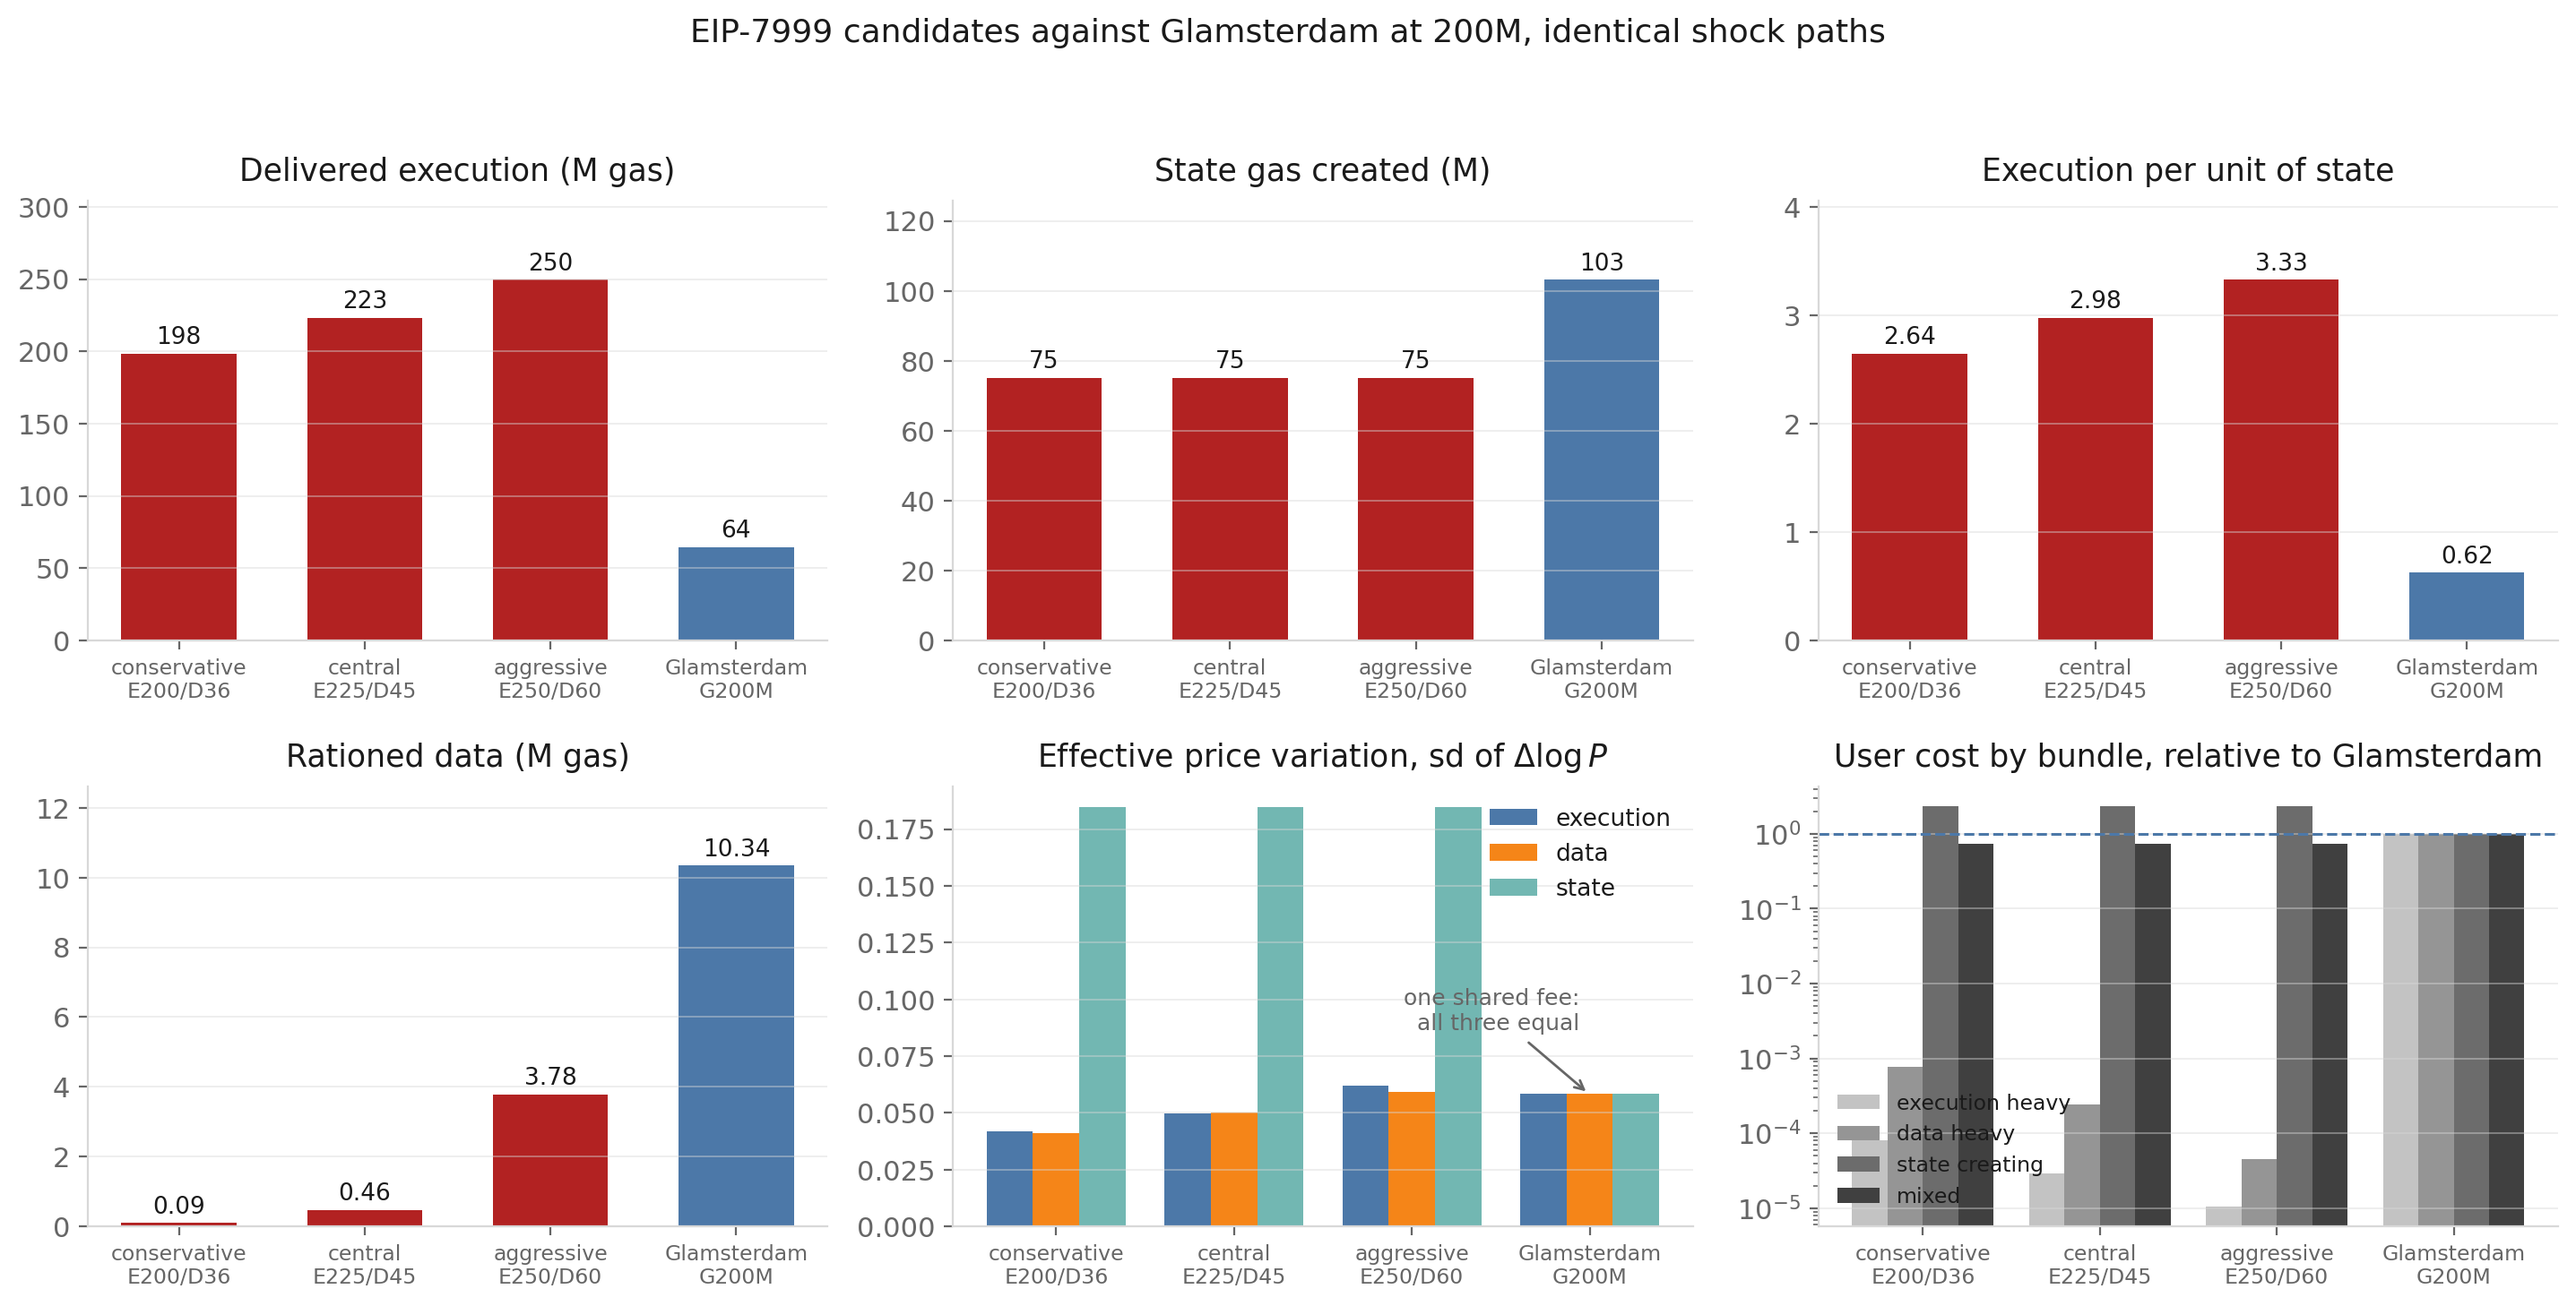
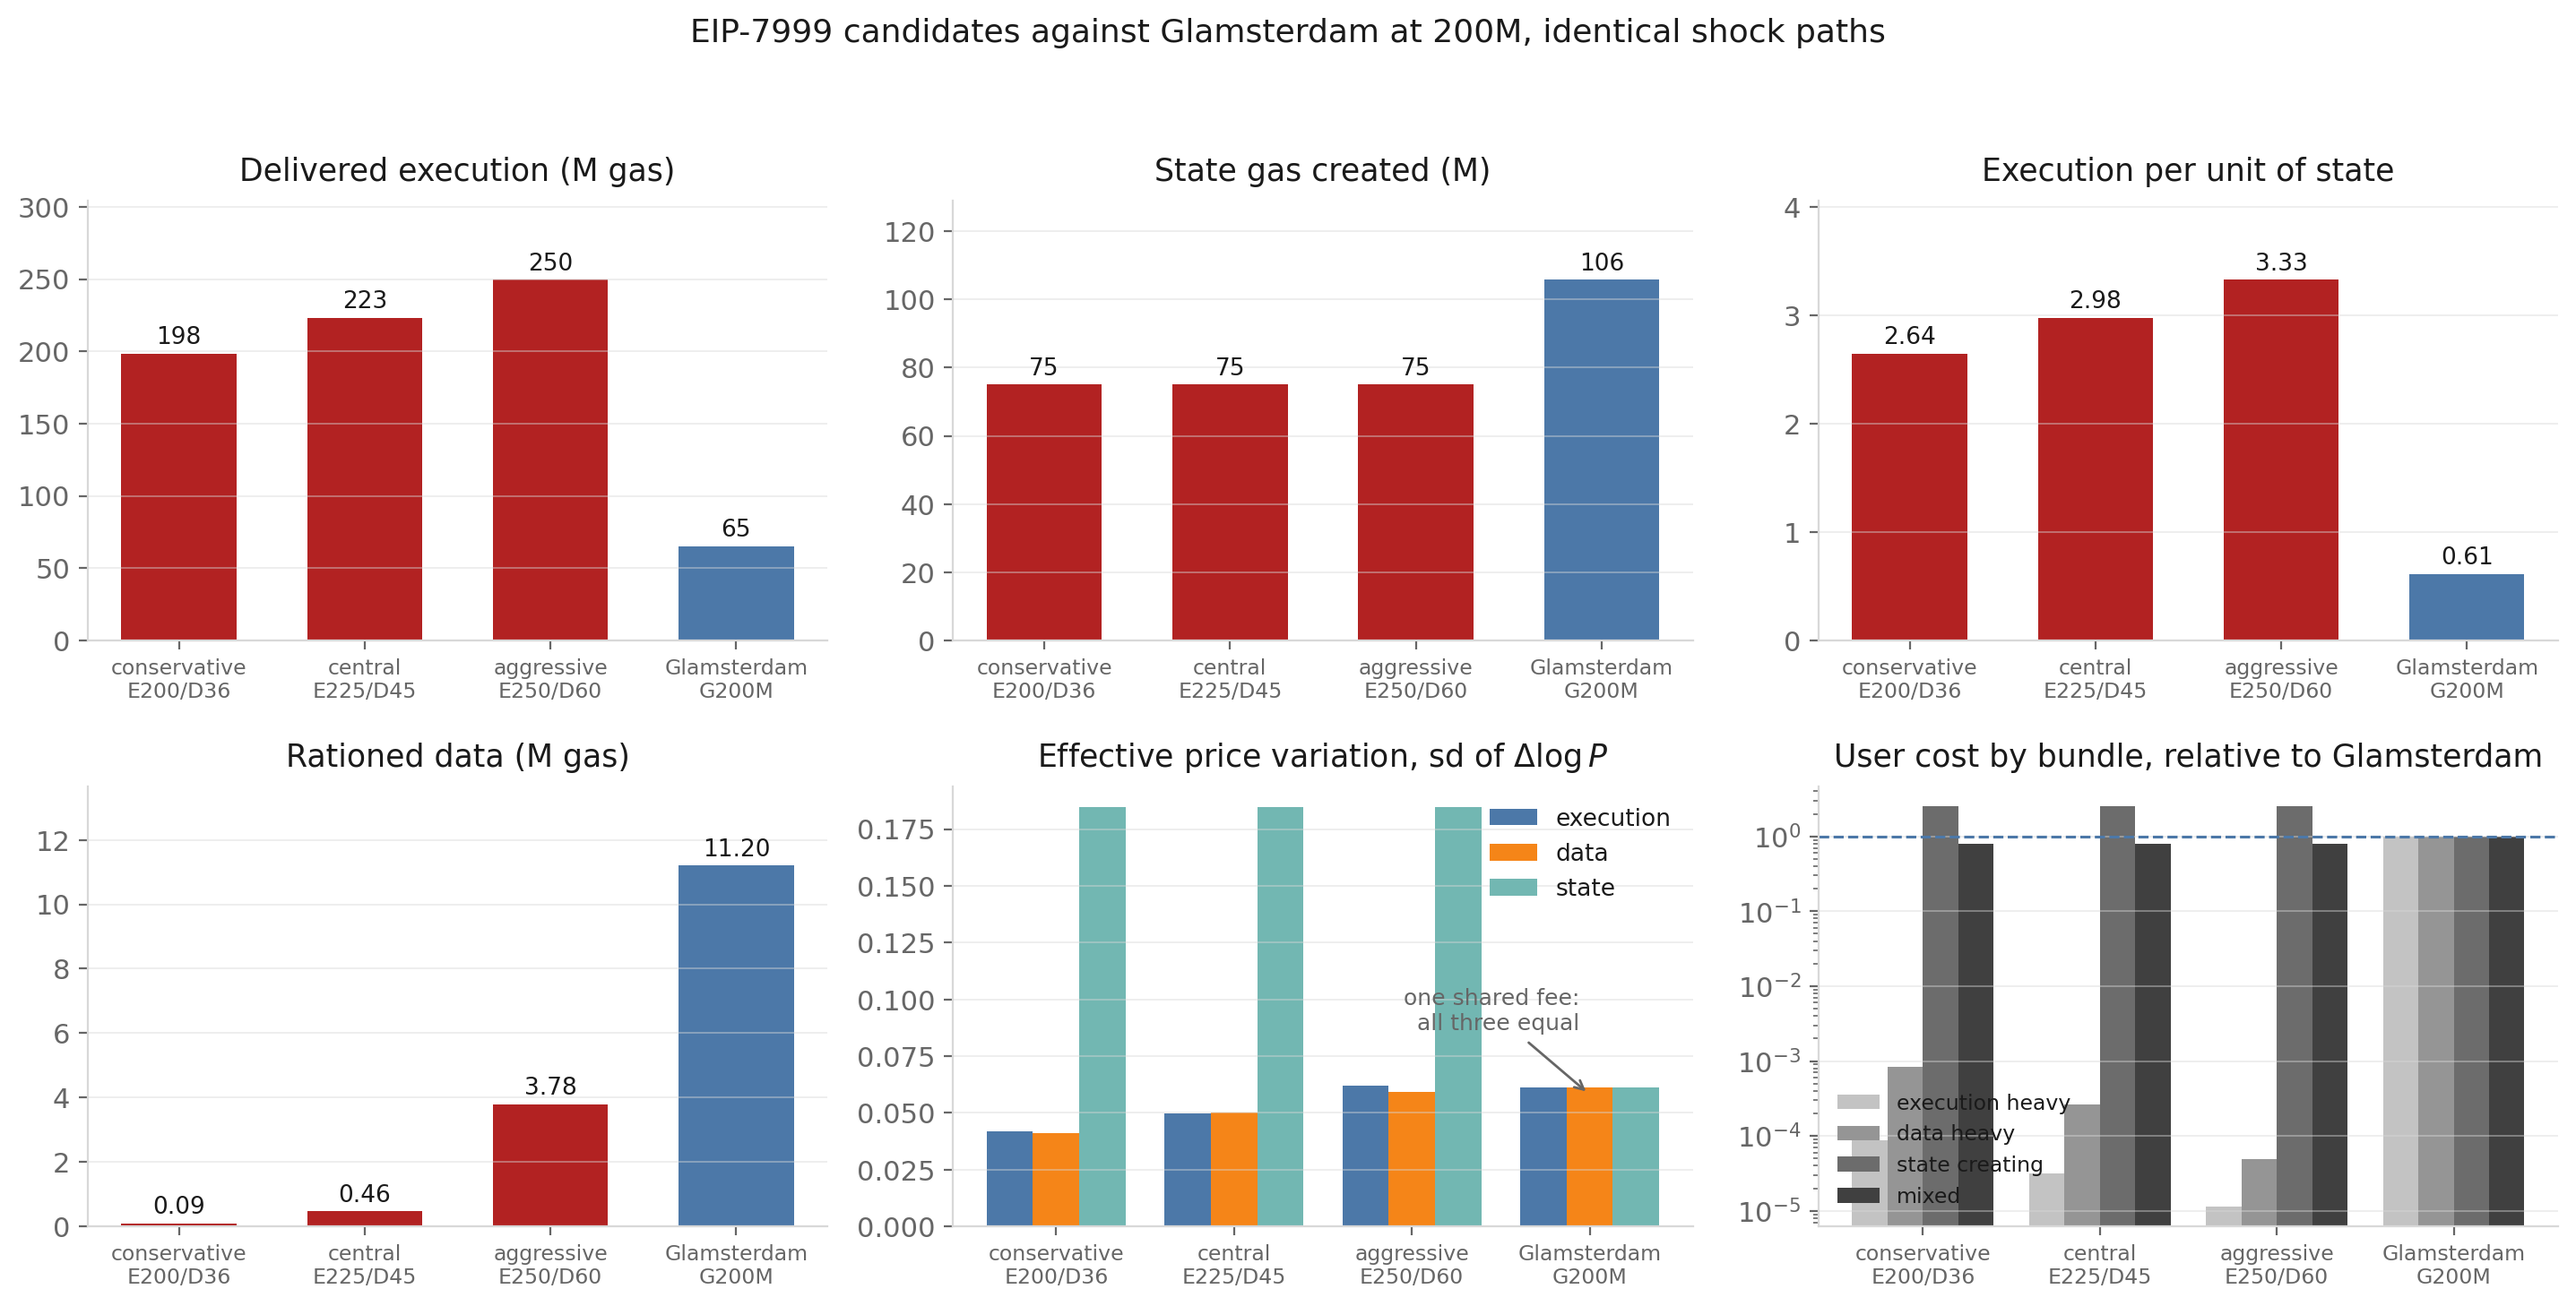
Simulate Glamsterdam with EIP-1559, not the EIP-7999 fee rule
The Glamsterdam kernel imported update_excess_gas and compute_base_fee from the
EIP-7999 module, so it ran the normalised excess-gas rule with exponentiation.
Glamsterdam is a hardfork of the current chain and keeps EIP-1559, which moves
the fee itself by a fraction of the relative gap to target. Simulating it with
the EIP-7999 update compared EIP-7999's dynamics against themselves.

The two rules agree on their maximum per-block rate, both reaching 12.5%, and
share the fixed point at u = T. Mean throughput is therefore largely a
fixed-point property and barely moves: delivered execution 64.4M -> 64.9M, state
gas 103.2M -> 105.8M. What the error distorted is everything about the approach
to that fixed point -- shared-fee volatility 0.058 -> 0.061, blocks at a hard
limit 0.091 -> 0.096, rationed data 10.34M -> 11.20M -- and floor behaviour,
since EIP-1559's downward step truncates to zero below 8 wei and so has an
emergent floor there, where EIP-7999 clamps its counter at zero and holds one
wei.

The new step reproduces the reference integer arithmetic exactly on all 4,080
cases tested, including both caps and the emergent floor. Successive floors by a
positive integer collapse, so base_fee * gap // target // 8 is evaluated as a
single floor in a grouping that keeps the intermediate inside float64's
exact-integer range.

Headline moves from 3.5x to 3.4x the execution of Glamsterdam at 200M, with
state creation 29% lower rather than 27%. The state-creating bundle costs 2.5x
[…]

diff --git a/src/dynamics/glamsterdam_replay.py b/src/dynamics/glamsterdam_replay.py
@@ -11,6 +11,17 @@ so metering is multi-dimensional while pricing stays one-dimensional. That is
 the structural difference being tested: under EIP-7999 the same workload faces
 three prices and a BAL charge, here it faces one price and none.
 
+Fee update. Glamsterdam is a hardfork of the current chain and keeps the EIP-1559
+rule, which is *not* the rule EIP-7999 uses. EIP-1559 moves the fee itself by a
+fraction of the relative gap to target, capped at one eighth per block; EIP-7999
+accumulates a normalised excess-gas counter and exponentiates it. The two agree
+on their maximum per-block rate, both reaching 12.5%, and they share the same
+fixed point at u = T -- so mean throughput is largely a fixed-point property and
+is insensitive to which is used. They differ in the approach to that fixed point
+and in floor behaviour, so volatility, limit-hit and floor statistics are not
+transferable between them. Using the EIP-7999 rule here would compare EIP-7999's
+dynamics against itself.
+
 Shock convention. The same latent workload (s_E, s_D, s_S, a) drives both
 mechanisms. The access-composition shock ``a`` changes the BAL payload in both
 worlds, but BAL is not a priced resource under Glamsterdam, so it does not
@@ -24,11 +35,36 @@ from dataclasses import dataclass
 
 import numpy as np
 
-from .batched_replay import (
-    EffectivePriceSummary,
-    GWEI, MIN_BASE_FEE_PER_GAS, OnlineSummary, compute_base_fee,
-    excess_gas_for_base_fee, update_excess_gas,
-)
+from .batched_replay import EffectivePriceSummary, GWEI, OnlineSummary
+
+BASE_FEE_MAX_CHANGE_DENOMINATOR = 8
+
+
+def update_base_fee_1559(
+    base_fee: np.ndarray, gas_used: np.ndarray, gas_target: np.ndarray,
+) -> np.ndarray:
+    """EIP-1559 base-fee update, reproducing the reference integer arithmetic.
+
+    The spec computes ``base_fee * delta_gas // target // 8``. Successive floors
+    by a positive integer collapse, so that equals ``floor(base_fee * delta_gas /
+    (target * 8))``, which is evaluated here in a grouping that keeps the
+    intermediate small enough to stay inside float64's exact-integer range.
+
+    The upward step is floored at one wei by the spec; the downward step is not,
+    so integer truncation stalls the fee once ``base_fee`` drops below the change
+    denominator. That gives EIP-1559 an emergent floor near 8 wei rather than the
+    explicit one-wei floor EIP-7999 sets, and it is reproduced rather than
+    smoothed over.
+    """
+
+    gap = gas_used - gas_target
+    step = np.floor(
+        base_fee * (np.abs(gap) / (gas_target * float(BASE_FEE_MAX_CHANGE_DENOMINATOR)))
+    )
+    return np.where(
+        gap > 0, base_fee + np.maximum(step, 1.0),
+        np.where(gap < 0, base_fee - step, base_fee),
+    )
 
 
 @dataclass(frozen=True)
@@ -82,8 +118,8 @@ def run_glamsterdam_batch(
         raise ValueError("batch is not a multiple of the supplied shock paths")
 
     p0_wei = config.p0_gwei * GWEI
-    fee = np.maximum(initial_base_fee_wei.astype(float), MIN_BASE_FEE_PER_GAS)
-    excess = excess_gas_for_base_fee(fee)
+    # EIP-1559 carries no excess-gas accumulator: the fee itself is the state.
+    fee = np.maximum(initial_base_fee_wei.astype(float), 1.0)
 
     summary = OnlineSummary(batch)
     effective_prices = EffectivePriceSummary(batch)
@@ -122,8 +158,7 @@ def run_glamsterdam_batch(
         used = np.minimum(offered, config.gas_limit)
 
         previous_fee = fee
-        excess = update_excess_gas(excess, used, config.gas_target, config.gas_limit)
-        fee = compute_base_fee(excess)
+        fee = update_base_fee_1559(fee, used, config.gas_target)
 
         # The three effective activity prices. Each is a fixed multiple of the one
         # shared fee, so under this mechanism they are perfectly correlated by

diff --git a/scripts/run_glamsterdam_comparison.py b/scripts/run_glamsterdam_comparison.py
@@ -92,7 +92,7 @@ def seven999_config(design, batch, demand, anchor):
     )
 
 
-def glamsterdam_config(gas_limit, batch, glam):
+def glamsterdam_config(gas_limit, batch, glam, demand):
     ones = np.ones(batch)
     return GlamsterdamConfig(
         gas_target=ones * gas_limit / 2.0, gas_limit=ones * gas_limit,
@@ -100,6 +100,8 @@ def glamsterdam_config(gas_limit, batch, glam):
         eps_state=ones * EPS["state"],
         m_execution=float(glam.m_execution), m_data=float(glam.m_data),
         m_state=float(glam.m_state),
+        w_execution=float(demand.w_execution_reference),
+        w_state=float(demand.w_state_reference),
         q_execution_0=float(glam.q_execution_per_block),
         q_data_0=float(glam.q_data_per_block),
         q_state_0=float(glam.q_state_per_block),
@@ -137,7 +139,8 @@ def main() -> None:
     rows = []
     for gas_limit in GLAMSTERDAM_SWEEP:
         out = run_glamsterdam_batch(
-            glamsterdam_config(gas_limit, N_SEEDS, glam), shocks, start_fee, burn_in=BURN_IN
+            glamsterdam_config(gas_limit, N_SEEDS, glam, demand), shocks, start_fee,
+            burn_in=BURN_IN,
         )
         shared = float(out["mean_fee_wei"][:, 0].mean())
         rows.append({

diff --git a/markdowns/bundle_priced_7999_dynamic_report.md b/markdowns/bundle_priced_7999_dynamic_report.md
@@ -39,14 +39,14 @@ steady state looks like in detail — are in the appendix.
    block is clipped before the fee can respond, so scarcity is resolved by
    exclusion rather than price. The most congested design has the *smallest*
    fee response — a failure that reads as stability on any volatility metric.
-5. **Against Glamsterdam at 200M, EIP-7999 delivers 3.5× the execution with 27%
+5. **Against Glamsterdam at 200M, EIP-7999 delivers 3.4× the execution with 29%
    less state creation**, because one shared fee cannot separate execution from
    state and the most elastic resource absorbs the headroom.
 6. **Separate pricing decouples the three prices, and moves cost onto state.**
    Under Glamsterdam all three effective activity prices are multiples of one
-   fee and vary identically (sd 0.058); under EIP-7999 they separate — execution
+   fee and vary identically (sd 0.061); under EIP-7999 they separate — execution
    0.050, data 0.050, state 0.185. An execution-heavy bundle becomes almost
-   free while a state-creating bundle costs 2.3× more.
+   free while a state-creating bundle costs 2.5× more.
 
 ---
 
@@ -233,6 +233,27 @@ data in one branch against state in the other, and pricing both with one base
 fee. Its three effective prices are $P_i = m_i^G b_G$ — fixed multiples of the
 shared fee, so they move together exactly.
 
+**The two mechanisms update their fees by different rules, and each is
+simulated with its own.** Glamsterdam is a hardfork of the current chain and
+keeps EIP-1559, which moves the fee itself by a fraction of the relative gap to
+target:
+
+$$
+b_{t+1}=b_t\pm\left\lfloor\frac{b_t\,|u_t-T|}{8\,T}\right\rfloor .
+$$
+
+EIP-7999 instead accumulates a normalised excess-gas counter and exponentiates
+it, $b=\lfloor\exp(\text{excess}/D)\rfloor$. The two agree on their maximum
+per-block rate — both reach 12.5% — and share the same fixed point at $u=T$,
+which is why mean throughput is largely insensitive to the choice. They differ
+in the approach to that fixed point and at the floor: EIP-7999 clamps its
+counter at zero and holds a one-wei minimum, while EIP-1559's downward step
+truncates to zero once $b_t<8$, giving it an emergent floor near 8 wei. So
+volatility, limit-hit and floor statistics are *not* transferable between the
+two rules, and simulating Glamsterdam with the EIP-7999 update would compare
+EIP-7999's dynamics against themselves. The EIP-1559 step here reproduces the
+reference integer arithmetic exactly on all 4,080 cases tested.
+
 Both mechanisms are driven by the same latent workload
 $(s_E, s_D, s_S, a)$. Identical shocks do not mean identical metered gas, and
 the difference is the object under test:
@@ -391,37 +412,37 @@ shock draws.
 
 | Metric | conservative | central | aggressive | Glamsterdam 200M |
 |---|---:|---:|---:|---:|
-| delivered execution | 198.2M | 223.3M | 249.6M | 64.4M |
+| delivered execution | 198.2M | 223.3M | 249.6M | 64.9M |
 | execution fill | 0.991 | 0.993 | 0.998 | — |
-| state gas created | 75.0M | 75.0M | 75.0M | 103.2M |
-| execution per unit of state | 2.64 | 2.98 | 3.33 | **0.62** |
-| blocks at a hard limit | 2.2% | 2.9% | 16.1% | 9.1% |
-| rationed data | 0.09M | 0.46M | 3.78M | 10.34M |
-| execution price, sd | 0.042 | 0.050 | 0.062 | 0.058 |
-| data price, sd | 0.041 | 0.050 | 0.059 | 0.058 |
-| state price, sd | 0.185 | 0.185 | 0.185 | 0.058 |
+| state gas created | 75.0M | 75.0M | 75.0M | 105.8M |
+| execution per unit of state | 2.64 | 2.98 | 3.33 | **0.61** |
+| blocks at a hard limit | 2.2% | 2.9% | 16.1% | 9.6% |
+| rationed data | 0.09M | 0.46M | 3.78M | 11.20M |
+| execution price, sd | 0.042 | 0.050 | 0.062 | 0.061 |
+| data price, sd | 0.041 | 0.050 | 0.059 | 0.061 |
+| state price, sd | 0.185 | 0.185 | 0.185 | 0.061 |
 | state price, p99 | 0.705 | 0.705 | 0.705 | 0.120 |
 | execution fee at floor | 15.8% | 13.3% | 5.0% | 0.0% |
 
-**Throughput.** At its central parameters EIP-7999 delivers **3.5× the execution
-with 27% less state creation**. Scaling Glamsterdam does not close the gap:
+**Throughput.** At its central parameters EIP-7999 delivers **3.4× the execution
+with 29% less state creation**. Scaling Glamsterdam does not close the gap:
 execution per unit of state *falls* as capacity rises, because lowering the
 shared fee expands the most elastic resource fastest. State creation has the
 largest estimated elasticity, so it absorbs the headroom — the state branch
-already sets the fee in 64% of blocks at a 200M limit, rising to 97% at 600M.
+already sets the fee in 66% of blocks at a 200M limit, rising to 97% at 600M.
 
 | | execution | state gas | execution per unit state |
 |---|---:|---:|---:|
-| Glamsterdam, 100M limit | 42.8M | 33.9M | 1.26 |
-| **Glamsterdam, 200M limit** | **64.5M** | **102.6M** | **0.63** |
-| Glamsterdam, 300M limit | 76.6M | 164.3M | 0.47 |
-| Glamsterdam, 600M limit | 99.4M | 337.3M | 0.29 |
+| Glamsterdam, 100M limit | 43.2M | 34.8M | 1.24 |
+| **Glamsterdam, 200M limit** | **65.1M** | **105.2M** | **0.62** |
+| Glamsterdam, 300M limit | 77.3M | 168.3M | 0.46 |
+| Glamsterdam, 600M limit | 100.2M | 345.3M | 0.29 |
 | **EIP-7999, E225/D45** | **223.4M** | **75.0M** | **2.98** |
 
 ![Mechanism frontier](../plots/dynamic_mechanism_frontier.png)
 
 **Prices.** Under Glamsterdam the three effective prices are fixed multiples of
-one fee, so they vary identically — sd 0.058 and p99 0.120 for all three, by
+one fee, so they vary identically — sd 0.061 and p99 0.120 for all three, by
 construction rather than by measurement. Under EIP-7999 they separate: execution
 and data near 0.050, state at 0.185 with a p99 of 0.705. Separate pricing does
 not make every price calmer. It makes each price track its own resource, and
@@ -432,13 +453,13 @@ volatile than a shared fee would make it.
 
 | bundle | conservative | central | aggressive | Glamsterdam 200M |
 |---|---:|---:|---:|---:|
-| execution-heavy | 0.04 | 0.02 | 0.01 | 515.8 |
-| data-heavy | 0.33 | 0.10 | 0.02 | 427.8 |
-| state-creating | 1378.7 | 1378.7 | 1378.7 | 588.1 |
-| mixed | 344.8 | 344.7 | 344.7 | 464.4 |
+| execution-heavy | 0.04 | 0.02 | 0.01 | 476.7 |
+| data-heavy | 0.33 | 0.10 | 0.02 | 395.4 |
+| state-creating | 1378.7 | 1378.7 | 1378.7 | 543.6 |
+| mixed | 344.8 | 344.7 | 344.7 | 429.3 |
 
 This is the mechanism doing what separate pricing is for. Execution and data
-become nearly free while state creation costs 2.3× more, because the externality
+become nearly free while state creation costs 2.5× more, because the externality
 is now priced where it is produced instead of being averaged into one fee.
 
 The caveat is capacity, and it is large. These EIP-7999 configurations carry
